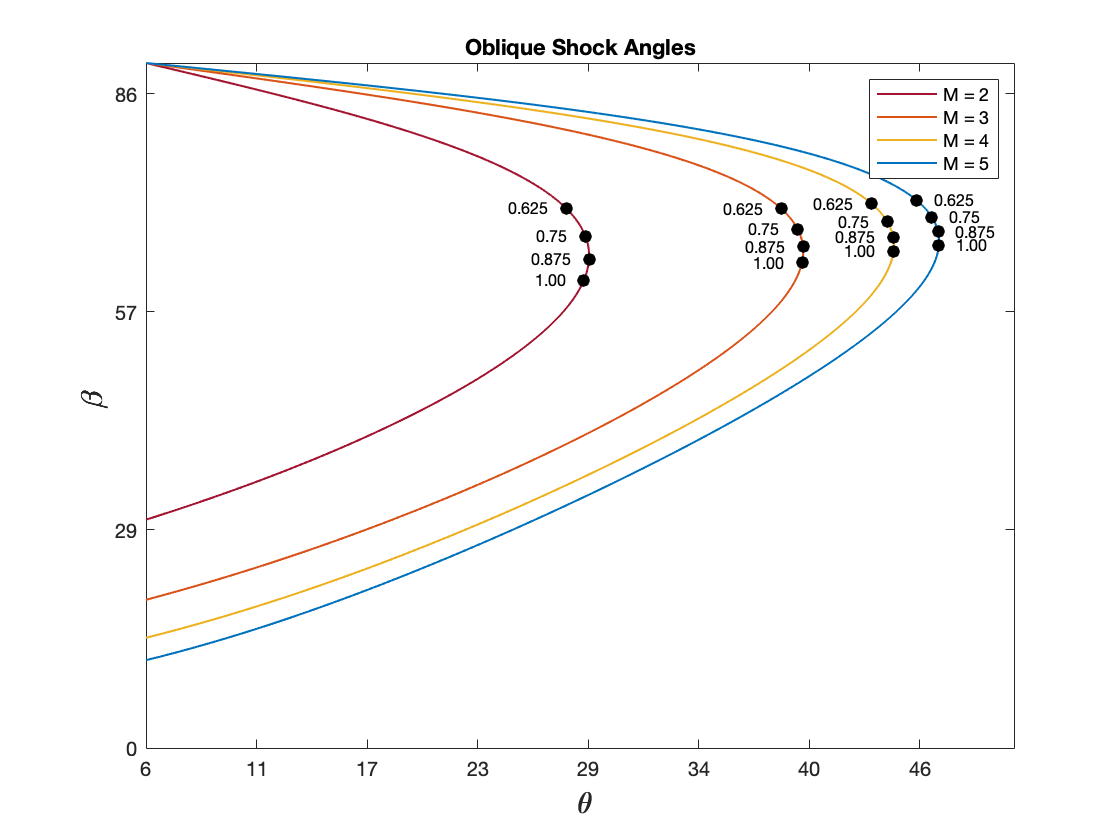
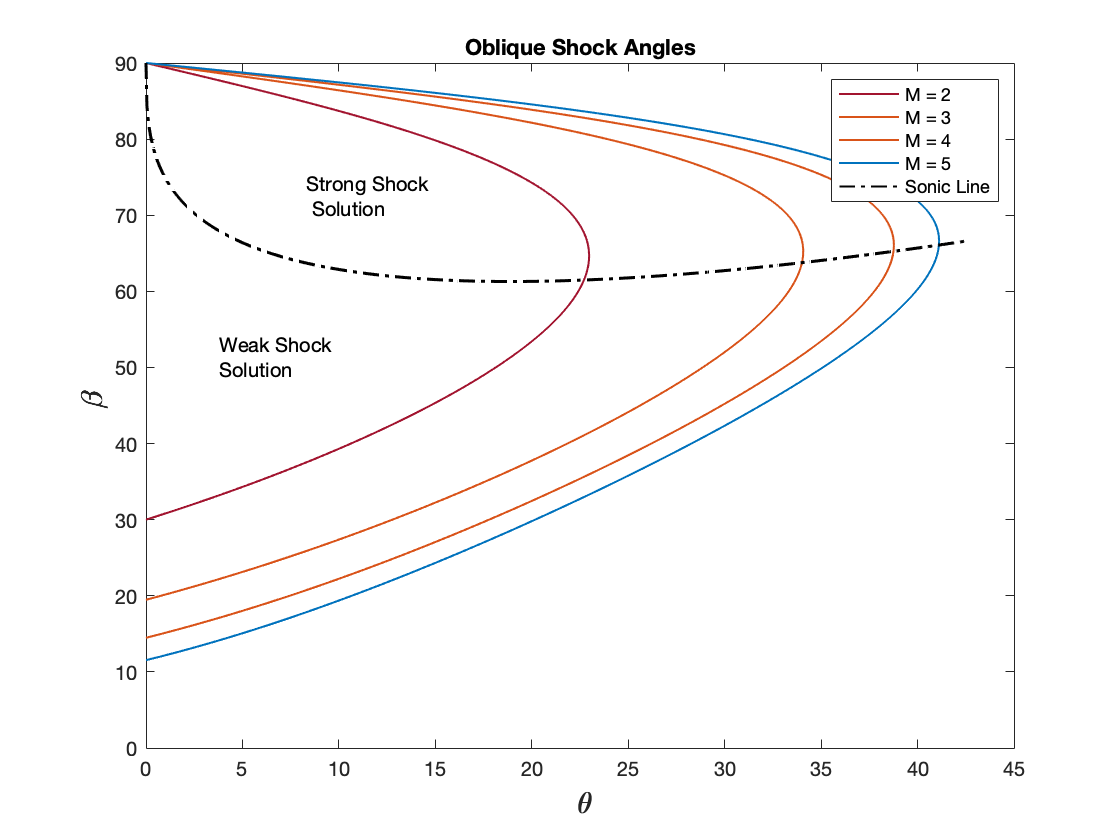
Sonic Line

diff --git a/2-D/ObliqueShockAngles.m b/2-D/ObliqueShockAngles.m
@@ -1,6 +1,7 @@
-syms M T B 
+syms T B 
 g = 1.4; 
 colorVec = {'#A2142F','#D95319','#D95319','#0072BD'}; 
+
 figure(1)
 for k = 2:5
     f1 = @(T,B) tand(T) - 2*cotd(B)*((k^2*(sind(B))^2 - 1)/...
@@ -9,17 +10,21 @@ for k = 2:5
     hold on 
 end 
 hold on 
-M = 1:0.01:5; 
+
+M = 1:0.01:6; 
 sinB2 = ((g-3)*M.^2+(g+1)*M.^4+(16*g*M.^4+...
     ((g-3)*M.^2+(g+1)*M.^4).^(2)).^(1/2))./(4*g*M.^4); 
 betaVec = asin((sinB2).^(1/2));
-SL = betaVec - asin(((ones(1,401)+(g-1)/2*(M).^2.*(sinB2))...
-    ./(g*(M).^2.*(sinB2)-(g-1)/2*ones(1,401))).^(1/2)); 
-plot(SL*(180/pi),betaVec*(180/pi),'linewidth',1,'color','black');
+SL = betaVec - asin(((ones(1,501)+(g-1)/2*(M).^2.*(sinB2))...
+    ./(g*(M).^2.*(sinB2)-(g-1)/2*ones(1,501))).^(1/2)); 
+plot(SL*(180/pi),betaVec*(180/pi),'linewidth',1,'color','black',...
+    'LineStyle','-.');
 xlim([0 45]);
 ylim([0 90]);
+text(8.3,72.5,sprintf('Strong Shock \n Solution'));
+text(3.8,51.4,sprintf('Weak Shock\nSolution'));
 title('Oblique Shock Angles');
-legend('','M = 2', 'M = 3','M = 4','M = 5');
+legend('M = 2', 'M = 3','M = 4','M = 5','Sonic Line');
 xlabel('{\bf \theta}','FontSize',15);
 ylabel('{\bf \beta}','FontSize',15); 
 
